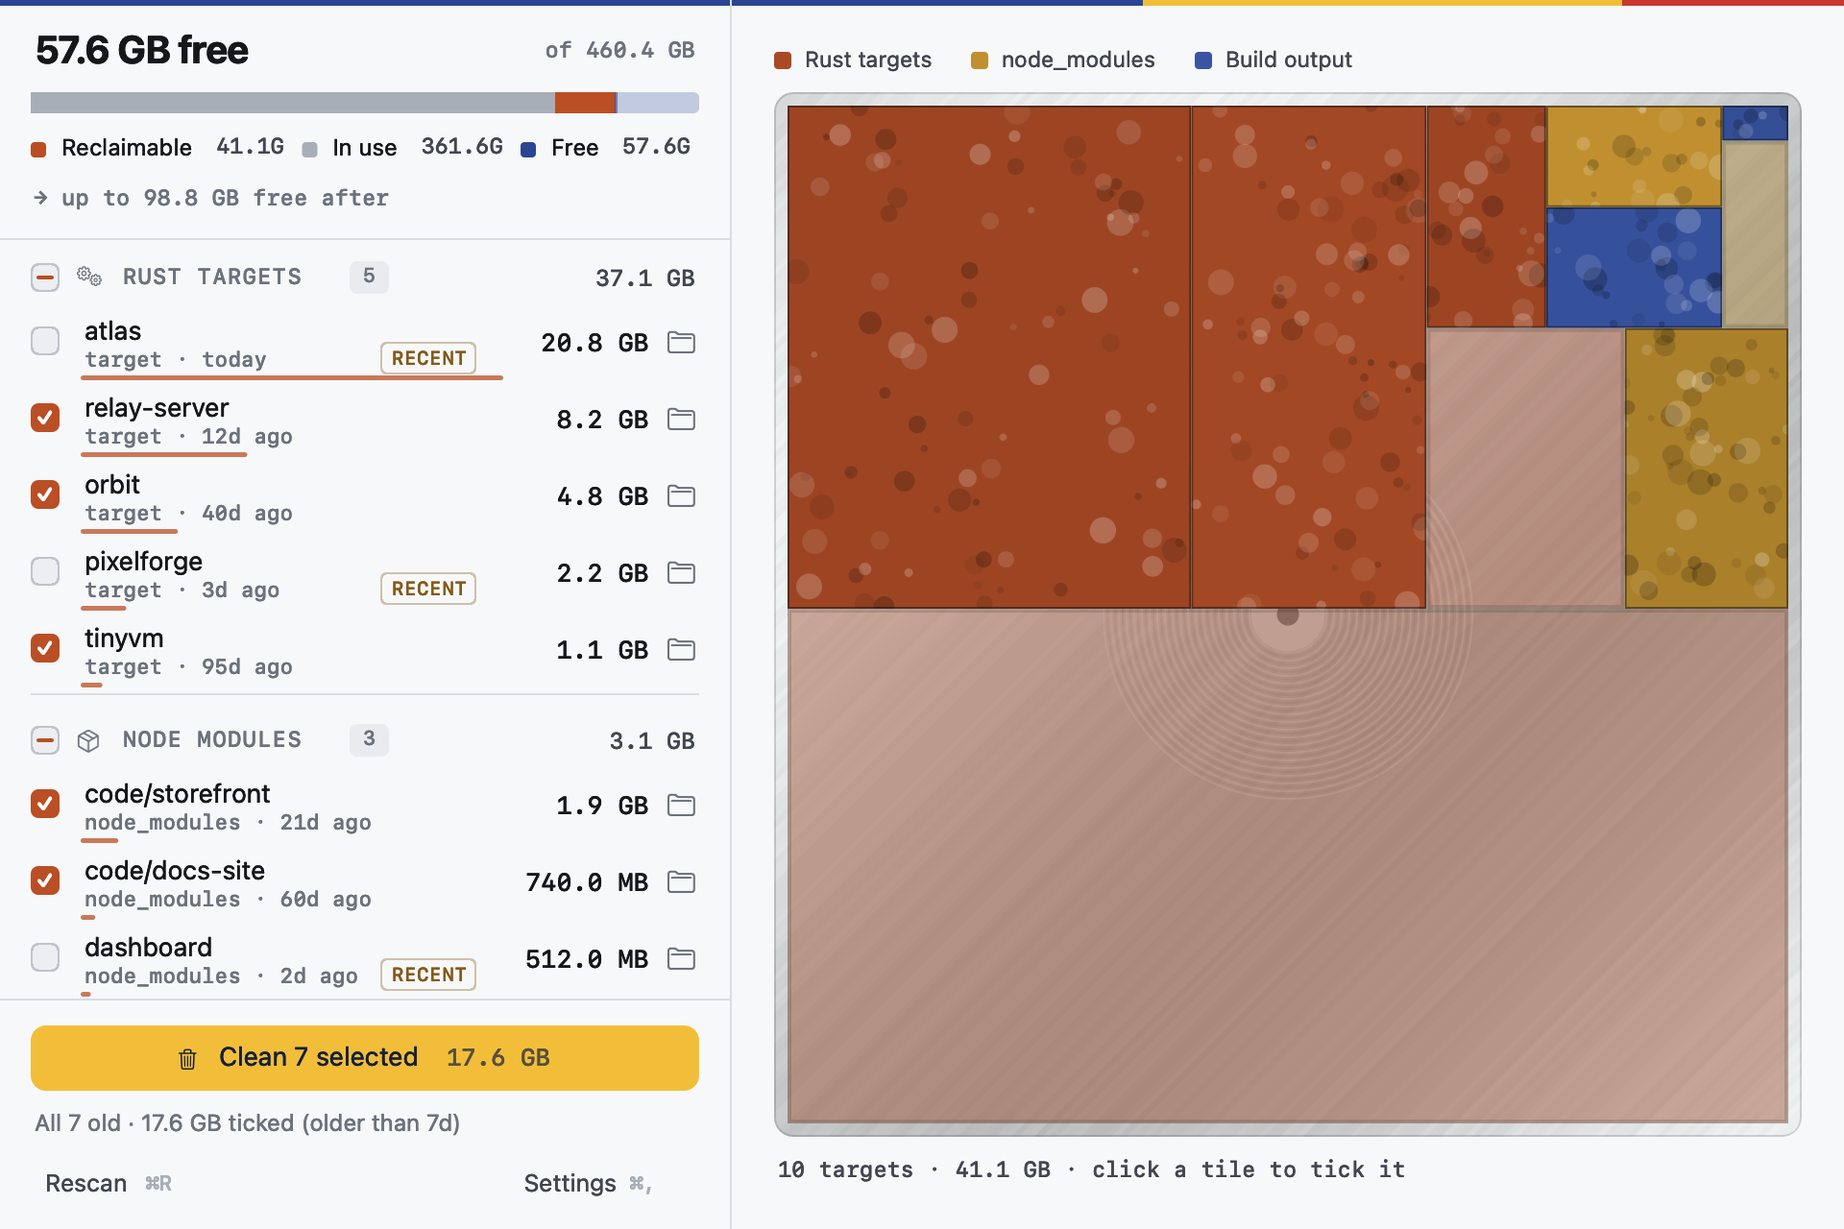
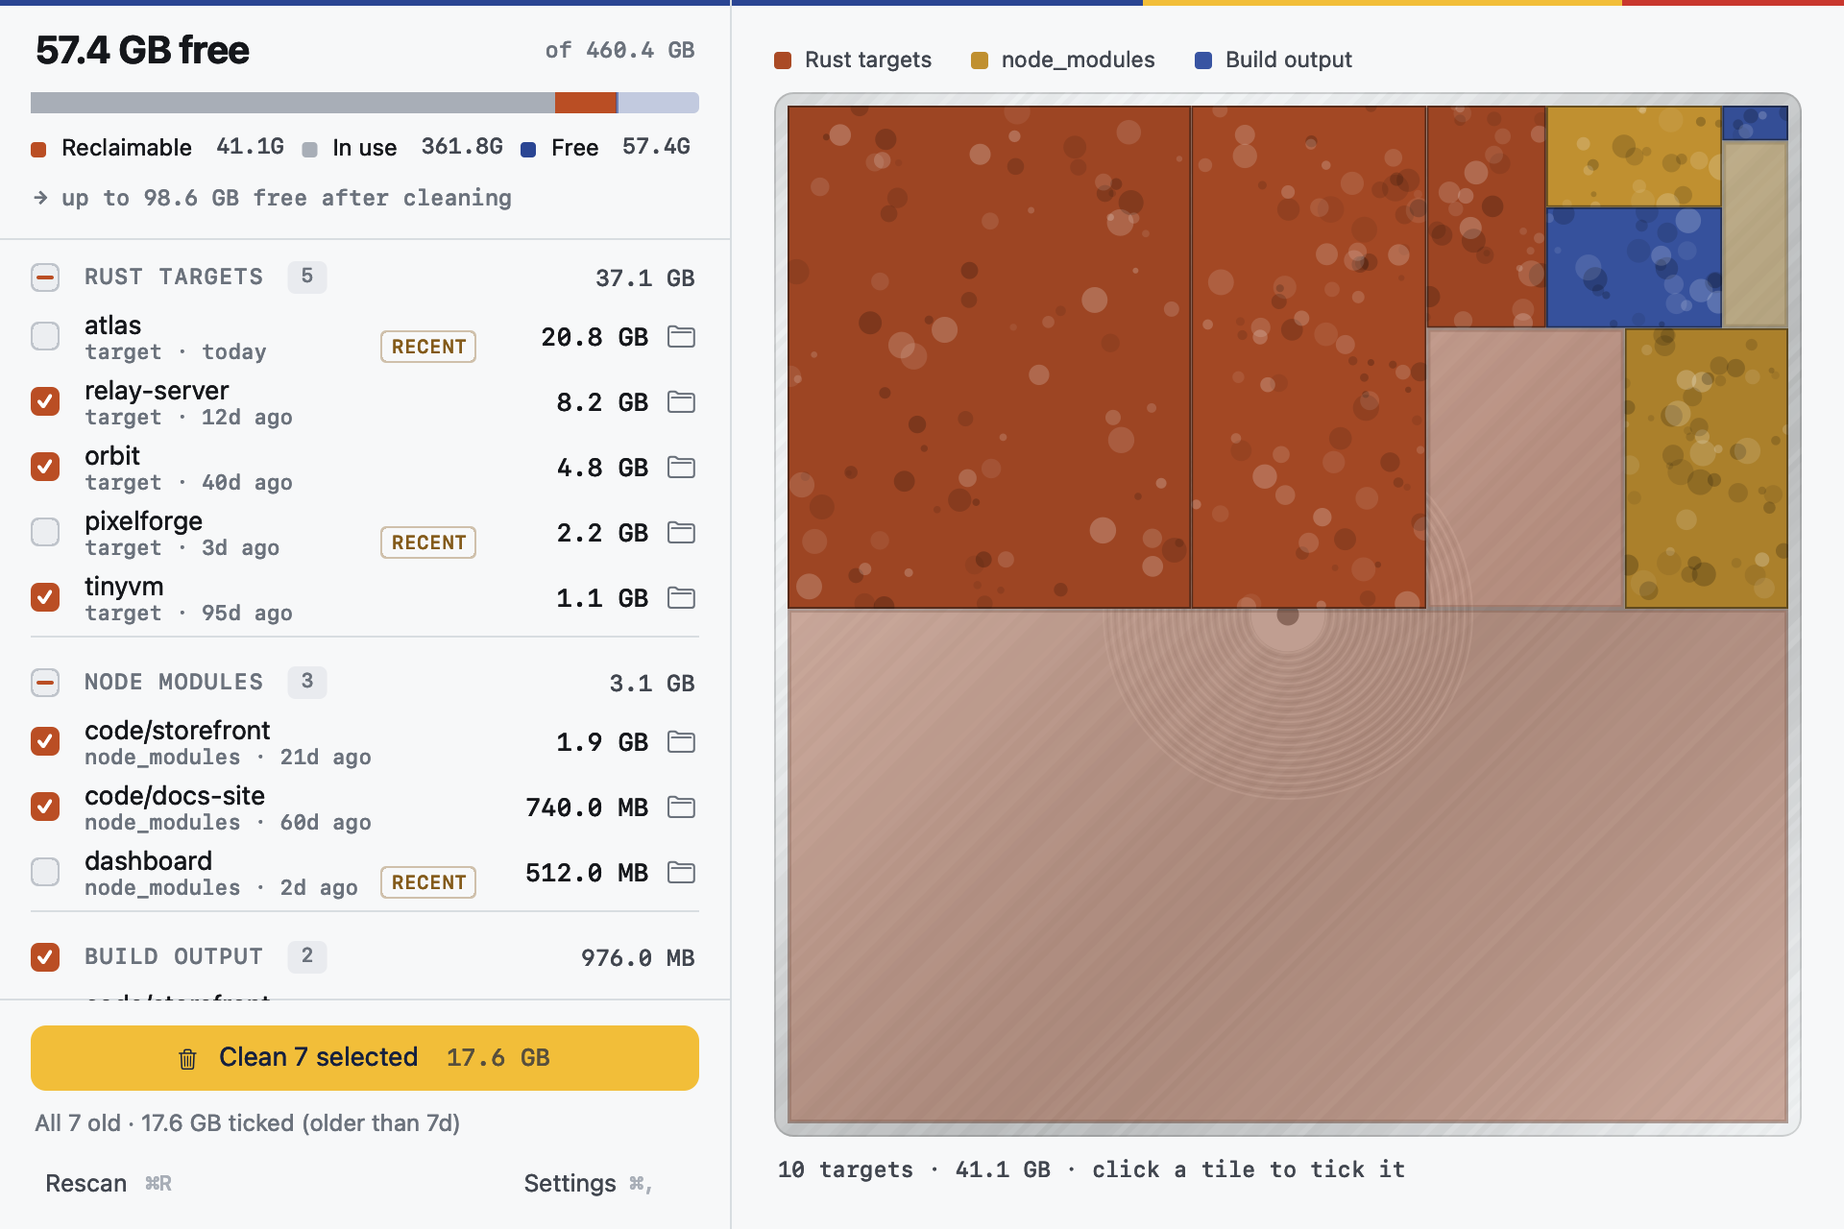
Scan screen: one verdict, a header that agrees with it, denser rows
With nothing past the keep threshold the header says all clear and counts the
space as recent builds. A clear group shows a check in its own header. Removes
the banner, the per-group line, the green button, the row underline, the group
icons and the APFS footnote; rows are 34pt on one left grid.

diff --git a/src/scan_view.rs b/src/scan_view.rs
@@ -38,9 +38,6 @@ pub const TAG_GROUP_BASE: isize = 3000;
 pub const TAG_REVEAL_BASE: isize = 10_000;
 
 /// How many of its old targets a group shows in the popover before folding.
-/// The line that says a group has nothing old, and the banner for the list.
-const CLEAR_H: f64 = 24.0;
-const BANNER_H: f64 = 86.0;
 const ROWS_PER_GROUP: usize = 3;
 const MAX_HEIGHT: f64 = 680.0;
 
@@ -55,7 +52,7 @@ pub fn build(state: &AppState, theme: &Theme, target: &AnyObject, mtm: MainThrea
 fn build_stacked(state: &AppState, theme: &Theme, target: &AnyObject, mtm: MainThreadMarker) -> (Retained<NSView>, f64) {
     let empty = state.empty_targets();
     let plans = plan_groups(&state.targets, &empty, fold(state));
-    let list_h = measure_list(state, &plans);
+    let list_h = measure_list(&plans);
     let body_h = (MAX_HEIGHT - header::SCAN_HEADER_HEIGHT - footer_h(state)).min(list_h);
     let height = header::SCAN_HEADER_HEIGHT + body_h + footer_h(state);
     let root = widgets::root_view(panel_w(), height, theme, mtm);
@@ -75,7 +72,7 @@ fn build_wide(state: &AppState, theme: &Theme, target: &AnyObject, width: f64, h
     add_fill(&root, panel_w(), 0.0, 1.0, height, theme.line, 1.0, 0.0, mtm);
     let (header, footer) = draw_frame(&root, height, state, theme, target, mtm);
     let body_h = height - header::SCAN_HEADER_HEIGHT - footer_h(state);
-    let list_h = measure_list(state, &plans);
+    let list_h = measure_list(&plans);
     let list = crate::scrolling::scroll_document_view(&root, 0.0, footer_h(state), panel_w(), body_h, list_h, mtm);
     let (rows, groups) = draw_list(&list, state, &plans, list_h.max(body_h), theme, target, mtm);
     let frame = layout::map_frame(width, height);
@@ -120,6 +117,8 @@ pub fn header_model(state: &AppState) -> ScanHeader {
         measured: state.measured.len(),
         total: state.targets.len(),
         discovering: crate::tasks::is_discovering(),
+        all_recent: all_clear(state),
+        keep_days: state.config.max_age_days,
         approximate: !state.reclaim.as_ref().is_some_and(|found| found.covers(&state.targets)),
     }
 }
@@ -135,10 +134,6 @@ fn draw_list(
     mtm: MainThreadMarker,
 ) -> (Vec<Row>, Vec<Group>) {
     let list_bottom = 4.0;
-    if all_clear(state) {
-        draw_all_clear(root, y, state, theme, mtm);
-        y -= BANNER_H;
-    }
     let names = display_names(&state.targets);
     let empty = state.empty_targets();
     let max_size = state.measured.iter().filter_map(|i| state.targets.get(*i)).map(|t| t.size_bytes).max().unwrap_or(1).max(1);
@@ -152,23 +147,22 @@ fn draw_list(
             count: plan.count,
             size: plan.size,
             settled: state.group_settled(plan.group),
+            clear: group_clear(state, plan),
             selection: group_selection(&state.targets, &state.selected, plan.group, &empty),
         };
         let (next, group) = scan_rows::draw_group_header(root, y, &model, theme, target, mtm);
         y = next;
         groups.push(group);
-        if group_clear(state, plan) {
-            let line = format!("\u{2713} Nothing older than {}d", state.config.max_age_days);
-            label(root, &line, PAD_X + 46.0, y - 20.0, content_w() - 46.0, 16.0, 12.5, false, theme.ok, false, mtm);
-            y -= CLEAR_H;
-        }
         // A group past the cap gets a scroll view of its own to draw into.
+        let clear = group_clear(state, plan);
         let shown_h = rows_height(plan);
         let all_h = plan.rows.len() as f64 * ROW_H;
         let inner = (all_h > shown_h).then(|| group_scroll::capped(root, y, shown_h, all_h, plan.group.key(), theme, mtm));
         let mut row_y = if inner.is_some() { all_h } else { y };
         for row in &plan.rows {
-            let model = row_model(state, row, &names, max_size);
+            let mut model = row_model(state, row, &names, max_size);
+            // RECENT only tells rows apart where a group has old ones too.
+            model.badge = !clear;
             let (next, drawn) = scan_rows::draw_row(inner.as_deref().unwrap_or(root), row_y, &model, theme, target, mtm);
             row_y = next;
             rows.push(drawn);
@@ -199,6 +193,7 @@ fn row_model<'a>(
         max_size,
         on: state.selected.contains(&row.index),
         max_age_days: state.config.max_age_days,
+        badge: true,
     }
 }
 
@@ -247,15 +242,7 @@ fn group_clear(state: &AppState, plan: &GroupPlan<'_>) -> bool {
     nothing_old(&state.targets, &state.empty_targets(), Some(plan.group), state.config.max_age_days)
 }
 
-/// The whole list is healthy: said once, at its head, before the groups.
-fn draw_all_clear(root: &NSView, y: f64, state: &AppState, theme: &Theme, mtm: MainThreadMarker) {
-    let days = state.config.max_age_days;
-    widgets::add_fill(root, PAD_X, y - BANNER_H + 8.0, content_w(), BANNER_H - 14.0, theme.ok, 0.12, 8.0, mtm);
-    label(root, "\u{2713}  Nothing to clean", PAD_X + 14.0, y - 34.0, content_w() - 28.0, 20.0, 15.0, true, theme.ok, false, mtm);
-    let detail = format!("Everything here was touched in the last {days} days. Recent builds stay listed below.");
-    widgets::label_wrap(root, &detail, PAD_X + 14.0, y - BANNER_H + 14.0, content_w() - 28.0, 32.0, 11.5, theme.ink_2, mtm);
-}
-
+/// Nothing listed is past the keep threshold: the header says so, once.
 fn all_clear(state: &AppState) -> bool {
     !state.targets.is_empty() && !state.sizing() && nothing_old(&state.targets, &state.empty_targets(), None, state.config.max_age_days)
 }
@@ -265,13 +252,13 @@ fn rows_height(plan: &GroupPlan<'_>) -> f64 {
     plan.rows.len().min(GROUP_CAP) as f64 * ROW_H
 }
 
-fn measure_list(state: &AppState, plans: &[GroupPlan<'_>]) -> f64 {
+fn measure_list(plans: &[GroupPlan<'_>]) -> f64 {
     if plans.is_empty() {
         return 48.0;
     }
-    let mut h = 8.0 + if all_clear(state) { BANNER_H } else { 0.0 };
+    let mut h = 8.0;
     for plan in plans {
-        h += GROUP_H + rows_height(plan) + if group_clear(state, plan) { CLEAR_H } else { 0.0 };
+        h += GROUP_H + rows_height(plan);
         if plan.hidden() > 0 {
             h += 40.0;
         }

diff --git a/src/scan_rows.rs b/src/scan_rows.rs
@@ -22,7 +22,7 @@ use objc2_app_kit::{NSBox, NSLineBreakMode, NSTextField, NSView};
 use objc2_foundation::{MainThreadMarker, NSPoint, NSRect, NSSize, NSString};
 use wd40::scanner::{ArtifactGroup, TargetDir};
 
-pub const ROW_H: f64 = 40.0;
+pub const ROW_H: f64 = 34.0;
 pub const GROUP_H: f64 = 33.0;
 /// Shown in place of a figure that is not known yet.
 const UNKNOWN: &str = "\u{2026}";
@@ -56,6 +56,8 @@ pub struct GroupModel {
     /// Every target in the group has a settled size.
     pub settled: bool,
     pub selection: GroupSelection,
+    /// Nothing in the group is past the keep threshold.
+    pub clear: bool,
 }
 
 pub struct RowModel<'a> {
@@ -67,6 +69,8 @@ pub struct RowModel<'a> {
     pub max_size: u64,
     pub on: bool,
     pub max_age_days: u64,
+    /// Whether a recent row may carry the RECENT badge.
+    pub badge: bool,
 }
 
 /// A figure, or the mark that says there is not one yet.
@@ -122,15 +126,22 @@ pub fn draw_group_header(
         parent, model.selection, PAD_X, y + 6.0, sel!(handleToggleGroup:), target,
         crate::scan_view::TAG_GROUP_BASE + index as isize, theme, mtm,
     );
-    widgets::symbol_view(parent, model.group.symbol(), PAD_X + 23.0, y + 6.0, 15.0, theme.ink_3, mtm);
     // Boxes centre on y + 13.5; all-caps text carries descender space it never
     // uses, so its frame sits a point lower to land on the same optical line.
-    label_tracked(parent, title(model.group), PAD_X + 46.0, y + 4.0, 120.0, 17.0, 11.5, false, theme.ink_3, true, 0.69, mtm);
+    // The chip follows the title, however long the group's name is.
+    let name = title(model.group);
+    let title_w = widgets::fitted_width(name, 11.5, true, mtm) + name.len() as f64 * 0.69 + 4.0;
+    let chip_x = DETAIL_X + title_w + 6.0;
+    label_tracked(parent, name, DETAIL_X, y + 4.0, title_w, 17.0, 11.5, false, theme.ink_3, true, 0.69, mtm);
     // As wide as its figure: a fixed badge clipped a three-digit count to two.
     let count = model.count.to_string();
     let count_w = widgets::fitted_width(&count, 10.5, true, mtm);
-    widgets::add_fill(parent, PAD_X + 166.0, y + 5.0, count_w + 10.0, 17.0, theme.surface_2, 1.0, 4.0, mtm);
-    label(parent, &count, PAD_X + 171.0, y + 6.0, count_w + 2.0, 15.0, 10.5, false, theme.ink_3, true, mtm);
+    widgets::add_fill(parent, chip_x, y + 5.0, count_w + 10.0, 17.0, theme.surface_2, 1.0, 4.0, mtm);
+    label(parent, &count, chip_x + 5.0, y + 6.0, count_w + 2.0, 15.0, 10.5, false, theme.ink_3, true, mtm);
+    // A clear group says so here, in its own header, and nowhere else.
+    if model.clear {
+        label(parent, "\u{2713}", chip_x + 18.0 + count_w, y + 5.0, 16.0, 16.0, 12.5, true, theme.ok, false, mtm);
+    }
     let size = label_right(parent, "", PAD_X + 203.0, y + 4.0, content_w() - 203.0, 17.0, 12.0, theme.ink_2, true, mtm);
     show_group_size(&size, model.size, model.settled);
     (y, Group { group: model.group, size, check })
@@ -159,8 +170,8 @@ pub fn draw_row(
     let tag = crate::scan_view::TAG_ITEM_BASE + model.index as isize;
     let row = hover_row(parent, y, ROW_H, theme.surface_2, tag, mtm);
     let wash = draw_wash(&row, model, theme, mtm);
-    let check = checkbox(&row, GroupSelection::from(model.on), PAD_X, 13.0, sel!(handleToggleItem:), target, tag, theme, mtm);
-    let name = label(&row, model.name, DETAIL_X, 18.0, name_w(), 16.0, 13.5, false, theme.ink, false, mtm);
+    let check = checkbox(&row, GroupSelection::from(model.on), PAD_X, 9.5, sel!(handleToggleItem:), target, tag, theme, mtm);
+    let name = label(&row, model.name, DETAIL_X, 15.0, name_w(), 16.0, 13.5, false, theme.ink, false, mtm);
     // A device or project name can outrun the column; ending it in an ellipsis
     // says so, where a hard clip reads as a name that happens to look odd.
     name.setLineBreakMode(NSLineBreakMode::ByTruncatingTail);
@@ -168,7 +179,8 @@ pub fn draw_row(
     let age = draw_detail(&row, model, recent, theme, mtm);
     let badge = draw_recent_badge(&row, theme, mtm);
     badge.setHidden(!recent);
-    let size = label_right(&row, "", size_x(), 12.0, SIZE_W, 16.0, 13.0, theme.ink, true, mtm);
+    badge.setAlphaValue(if model.badge { 1.0 } else { 0.0 });
+    let size = label_right(&row, "", size_x(), 9.0, SIZE_W, 16.0, 13.0, theme.ink, true, mtm);
     show_size(&size, model.measured.then_some(model.target.size_bytes));
     // Its own action, so `HoverRow::hitTest` leaves the click with it: opening
     // Finder must not also tick the row it sits in.
@@ -192,9 +204,9 @@ fn draw_detail(
     let width = detail_width(recent);
     let rest = meta(model.target);
     let path = display_path(&model.target.path);
-    let field = label(row, &rest, DETAIL_X, 4.0, width, 14.0, 11.0, false, theme.ink_3, true, mtm);
+    let field = label(row, &rest, DETAIL_X, 2.0, width, 14.0, 11.0, false, theme.ink_3, true, mtm);
     field.setUsesSingleLineMode(true);
-    field.setLineBreakMode(NSLineBreakMode::ByTruncatingMiddle);
+    field.setLineBreakMode(NSLineBreakMode::ByTruncatingHead);
     row.set_detail(&field, &rest, &path);
     row.setToolTip(Some(&NSString::from_str(&model.target.path.to_string_lossy())));
     field
@@ -208,7 +220,10 @@ fn draw_wash(
 ) -> Retained<NSBox> {
     let bytes = if model.measured { model.target.size_bytes } else { 0 };
     let frame = wash_frame(bytes, model.max_size);
-    widgets::add_fill(row, frame.origin.x, frame.origin.y, frame.size.width, METER_H, theme.accent, 0.75, METER_H / 2.0, mtm)
+    // Kept for the live handle, not shown: under every row it read as noise.
+    let meter = widgets::add_fill(row, frame.origin.x, frame.origin.y, frame.size.width, METER_H, theme.accent, 0.75, METER_H / 2.0, mtm);
+    meter.setHidden(true);
+    meter
 }
 
 fn meta(target: &TargetDir) -> String {

diff --git a/src/header.rs b/src/header.rs
@@ -97,6 +97,10 @@ pub struct ScanHeader {
     pub total: usize,
     pub discovering: bool,
     pub approximate: bool,
+    /// Nothing found is past the keep threshold: the figures are recent
+    /// builds, not something to reclaim, and the verdict is "all clear".
+    pub all_recent: bool,
+    pub keep_days: u64,
 }
 
 impl ScanHeader {
@@ -150,11 +154,12 @@ pub fn draw_scan_header(parent: &NSView, y_top: f64, model: &ScanHeader, theme: 
         crate::motion::reset_scan_gauge();
     }
     let reclaimable = if model.discovering { 0 } else { model.reclaimable.min(used) };
+    let tone = if model.all_recent { theme.ink_3 } else { theme.accent };
     crate::header_legend::draw_legend_row(
         parent,
         y_top - 86.0,
         [
-            ("Reclaimable", human_size(reclaimable), theme.accent),
+            (if model.all_recent { "Recent builds" } else { "Reclaimable" }, human_size(reclaimable), tone),
             ("In use", human_size(used.saturating_sub(reclaimable)), theme.ink_4),
             ("Free", human_size(disk.free_bytes), theme.pos),
         ],
@@ -191,7 +196,12 @@ fn draw_scan_detail(
     } else {
         format!("\u{2192} {bound}{} free after cleaning", scan_size(after))
     };
-    label(parent, &detail, PAD_X, y_top - 112.0, 230.0, 16.0, 11.5, false, theme.ink_3, true, mtm);
+    // The verdict, said once: with nothing old, the screen is all clear.
+    let (detail, ink) = match model.all_recent && !model.in_progress() {
+        true => (format!("\u{2713} All clear \u{00b7} nothing older than {}d", model.keep_days), theme.ok),
+        false => (detail, theme.ink_3),
+    };
+    label(parent, &detail, PAD_X, y_top - 112.0, 300.0, 16.0, 11.5, false, ink, true, mtm);
     if model.sizing() {
         let counted = format!("{} of {} measured", model.measured, model.total);
         label_right(parent, &counted, PAD_X + 230.0, y_top - 112.0, content_w() - 230.0, 16.0, 11.5, theme.ink_3, true, mtm);
@@ -224,7 +234,7 @@ fn draw_scan_gauge(
     let animation = crate::motion::scan_gauge_animation(
         target_w, model.sizing(), model.in_progress(), reclaim_landed,
     );
-    let artifact = add_fill(parent, PAD_X + used_w, y, animation.from, 11.0, theme.accent, 1.0, 0.0, mtm);
+    let artifact = add_fill(parent, PAD_X + used_w, y, animation.from, 11.0, if model.all_recent { theme.ink_3 } else { theme.accent }, 1.0, 0.0, mtm);
     crate::motion::glide_for_gauge(&artifact, PAD_X + used_w, y, animation.to, animation.duration);
     let marker = add_fill(parent, PAD_X + used_w + animation.from, y, 1.0, 11.0, theme.pos, 0.55, 0.0, mtm);
     crate::motion::glide_gauge_marker(&marker, PAD_X + used_w + animation.to, y, animation.duration);
@@ -266,6 +276,8 @@ mod tests {
             total,
             discovering,
             approximate,
+            all_recent: false,
+            keep_days: 7,
         }
     }
 

diff --git a/src/scan_footer.rs b/src/scan_footer.rs
@@ -15,21 +15,18 @@ use objc2_app_kit::NSView;
 use objc2_foundation::MainThreadMarker;
 use std::collections::HashSet;
 use wd40::disk::sum_bytes;
-use wd40::scanner::sizes_may_overlap;
 
 const TAG_TICK_OLD: isize = 2008;
 
 /// Button, shortcuts and padding. The caveat line adds its own height only
 /// when there is a caveat.
 const FOOTER_BASE_H: f64 = 95.0;
-const CAVEAT_H: f64 = 20.0;
 const RECEIPT_H: f64 = 20.0;
 const TICK_H: f64 = 24.0;
 
 pub fn footer_h(state: &AppState) -> f64 {
     FOOTER_BASE_H
         + if old_batch(state).0.is_empty() { 0.0 } else { TICK_H }
-        + if footer_caveat(state).is_some() { CAVEAT_H } else { 0.0 }
         + if crate::auto_clean::receipt_line().is_some() { RECEIPT_H } else { 0.0 }
 }
 pub fn draw_footer(
@@ -49,10 +46,6 @@ pub fn draw_footer(
     }
     if let Some(receipt) = crate::auto_clean::receipt_line() {
         label(parent, &receipt, PAD_X, line_y, content_w(), 16.0, 11.0, false, theme.ink_3, false, mtm);
-        line_y -= RECEIPT_H;
-    }
-    if let Some(caveat) = footer_caveat(state) {
-        label(parent, &caveat, PAD_X, line_y, content_w(), 16.0, 11.5, false, theme.ink_3, false, mtm);
     }
     let rescan = text_button_hint(parent, "Rescan", "\u{2318}R", PAD_X, 13.0, sel!(handleRescan:), target, crate::scan_view::TAG_RESCAN, theme.ink_2, theme.ink_4, mtm);
     set_cmd_key(&rescan, "r");
@@ -98,19 +91,10 @@ fn clean_cta(state: &AppState) -> CleanCta {
     if state.selected.is_empty() {
         let days = state.config.max_age_days;
         let clear = !state.targets.is_empty() && crate::selection::nothing_old(&state.targets, &state.empty_targets(), None, days);
-        return if clear { CleanCta::Clear { days } } else { CleanCta::Empty };
+        return if clear { CleanCta::Clear } else { CleanCta::Empty };
     }
     CleanCta::Ready {
         count: state.selected.len(),
         size: scan_size(state.selected_size()),
     }
-}
-
-/// The only thing the footer can say that the rows do not already show. Empty
-/// checkboxes, RECENT badges and a disabled button state the rest of it
-/// themselves; repeating them in prose was noise on every open.
-fn footer_caveat(state: &AppState) -> Option<String> {
-    let paths: Vec<_> = state.targets.iter().map(|t| t.path.clone()).collect();
-    sizes_may_overlap(&paths)
-        .then(|| "Sizes overlap where builds share APFS clones.".to_string())
 }

diff --git a/src/controls.rs b/src/controls.rs
@@ -134,7 +134,7 @@ pub enum CleanCta {
     /// Nothing is ticked.
     Empty,
     /// Nothing is ticked because nothing is old enough to be worth ticking.
-    Clear { days: u64 },
+    Clear,
     Ready { count: usize, size: String },
 }
 
@@ -143,7 +143,7 @@ impl CleanCta {
         match self {
             Self::Measuring => "Measuring\u{2026}".into(),
             Self::Empty => "Tick what to clean".into(),
-            Self::Clear { days } => format!("All clear \u{2014} nothing older than {days}d"),
+            Self::Clear => "Tick a recent build to clean it anyway".into(),
             Self::Ready { count, .. } => format!("Clean {count} selected"),
         }
     }
@@ -187,8 +187,8 @@ pub fn clean_button(
     // there is something it would really remove.
     let (fill, ink, alpha) = match cta {
         CleanCta::Ready { .. } => (theme.cta, theme.cta_ink, 1.0),
-        // Healthy, in green: a statement, not a button waiting to be armed.
-        CleanCta::Clear { .. } => (theme.ok, theme.ok, 0.16),
+        // Quiet: the header carries the verdict, and this is only the way on.
+        CleanCta::Clear => (theme.surface_2, theme.ink_3, 1.0),
         _ => (theme.surface_3, theme.ink_3, 1.0),
     };
     add_fill(parent, x, y, w, CTA_H, fill, alpha, 8.0, mtm);

diff --git a/CHANGELOG.md b/CHANGELOG.md
@@ -18,6 +18,8 @@
 - **A large group scrolls inside itself** (`src/group_scroll.rs`): past seven rows a group's rows sit in a scroll view of their own under the group header, with a fade at each edge that has more. At an end the wheel passes to the list around it. Each group's offset is kept across rebuilds.
 - **Healthy states** (`src/scan_view.rs`, `src/selection.rs`): a group with nothing older than the keep threshold says so in green, and when no group has anything old the list opens with "Nothing to clean" and the button reads "All clear". Recent targets stay listed and tickable.
 
+- **The scan screen says its verdict once** (`src/header.rs`, `src/scan_rows.rs`, `src/scan_view.rs`): with nothing past the keep threshold the header reads "All clear" and counts the space as recent builds, not reclaimable; a clear group carries a green check in its own header. The banner, the per-group line, the green button, the row underline, the group icons and the APFS footnote are gone. Rows are 34pt, RECENT shows only in groups that also have old targets, and paths keep their tail.
+
 ### Fixed
 - **`release.sh` stops before building when the Keychain's Sparkle key is not the one `Info.plist` trusts** (`scripts/check-sparkle-key.sh`): 0.7.0 was first published with an EdDSA signature from a different key, and every installed copy reported "The update is improperly signed". The appcast was re-signed with the trusted key; the archives did not change.
 
